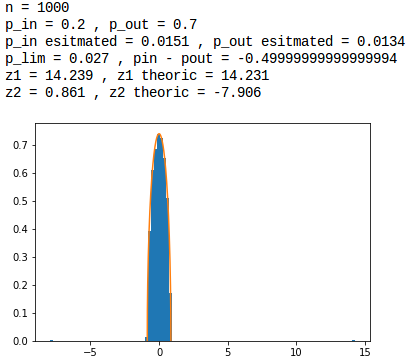
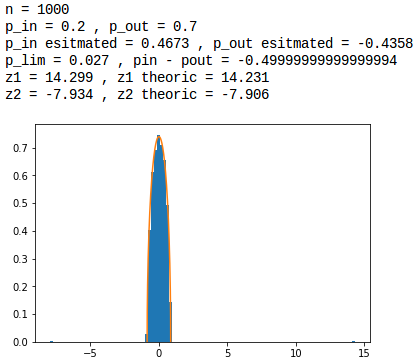
final version of Raj-Rao_Newman

Changed region(s): [[0.0, 0.0, 1.0, 0.2773], [0.0296, 0.3389, 0.9163, 1.0]]

diff --git a/chapter/simulation.tex b/chapter/simulation.tex
@@ -9,21 +9,21 @@ Le but est de générer une matrice d'adjacence A sous les mêmes hypothèses qu
 
 L'élément discriminant du test spectral étant la variable $ \Delta p= p_{in} - p_{out}$, nous allons tester 3 valeurs représentatives des différents types de résultats:
 \begin{itemize}
-	\item[1-] $\Delta p \in [-1,\: 0] \implies$ le graphe ne comporte pas de structure de communauté ;
-	\item[2-] $\Delta p \in [0,\: p_{lim}] \implies$ le graphe comporte une structure de communauté mais la méthode spectrale ne réussi pas à la trouver ;
-	\item[2-] $\Delta p \in [p_{lim},\: 1] \implies$ le graphe comporte une structure de communauté.\\
+	\item[1-] $\Delta p \in [-1,\: -p_{lim}] \implies$ le graphe comporte de structure de communauté ``disassortative'';
+	\item[2-] $\Delta p \in [-p_{lim},\: p_{lim}] \implies$ la méthode spectrale ne peut rien conclure sur la stucture de communauté du graphe;
+	\item[2-] $\Delta p \in [p_{lim},\: 1] \implies$ le graphe comporte une structure de communauté ``assortative''.\\
 \end{itemize}
 
 Par la suite nous allons tester pour les valeurs $\Delta p= 0.5, 0.08, -0.5$ .
-De plus nous ferons une première vague de test avec $n=100$ et une autre avec $n=1000$.
+De plus nous ferons une première batterie de test avec $n=100$ et une autre avec $n=1000$.
 La terminologie utilisée dans les figures ci-dessous est:
 \begin{itemize}
 	\item[- \underline{$n,\: p_{in},\: p_{out},\: p_{lim},\: z_1,\: z_2$}:] sont identiques aux notations utilisées jusqu'à présent ;
 	\item[- \underline{$z_1\: theoric, \:z_2\: theoric$}:] sont les plus grandes valeurs propres $z_1$ et $z_2$ calculées via les équations \eqref{z_1} et \eqref{z_2} ;    
 	\item[- \underline{$p_{in}\: estimated, \:p_{out}\: estimated$}:] sont les probabilités du SBM calculées a posteriori grâce aux valeurs propres $z_1$ et $z_2$.\\
 \end{itemize}
-Les $p_{in}\: estimated, \:p_{out}\: estimated$ sont calculés via un calcul d'optimisation (la fonction ``fsolve'' en python).
-\begin{figure}[H]
+Les $p_{in}\: estimated, \:p_{out}\: estimated$ sont calculés via un calcul d'optimisation.\\
+\begin{figure}[p]
 	\begin{subfigure}{.5\textwidth}
 		\centering
 		\includegraphics[scale=0.58]{static/spectral_n100_pin08_pout03.png}
@@ -65,15 +65,24 @@ Les $p_{in}\: estimated, \:p_{out}\: estimated$ sont calculés via un calcul d'o
 La première observation que l'on peut faire est que les valeurs propres de nos matrices d'adjacence sont bien distribuées selon la loi du demi-cercle de Wigner.
 De plus, en fonction de $\Delta p$ la mesure spectrale est perturbé (ou pas) par une ou deux valeurs propres qui sortent du support de la distribution initiale.\\
 
-Dans les cas avec $\Delta p = 0.5$ (\ref{n100delta05}, \ref{n1000delta05}), on voit très clairement deux valeurs propres qui se détachent du support de la distribution de Wigner.
-Les valeurs $z_1$, $z_2$ correspondent bien aux valeurs théoriques et dans ce cas on retrouve, avec un taux d'erreur de l'ordre de $10^{-2}$, les valeurs $p_{in}$, $p_{out}$ du modèle utilisé pour générer le graphe.\\
+Dans les cas avec $\Delta p = 0.5$ (\autoref{n100delta05}, \autoref{n1000delta05}), on voit très clairement deux valeurs propres qui se détachent du support de la distribution de Wigner.
+Les valeurs $z_1$, $z_2$ correspondent bien aux valeurs théoriques avec un taux d'erreur de l'ordre de $10^{-2}$.
+Par conséquent lorsque l'on obtient une valeur propre négative, le modèle spectral nous permet de conclure qu'il y a une structure de communauté ``assortative'' dans le graphe.\\
 
-Dans les cas avec $\Delta p = -0.5$ (\ref{n100delta008}, \ref{n1000delta008}), on ne s'attend pas à ce que les valeurs théorique du modèles correspondent aux valeurs trouvées par la simulation, dans la mesure où il n'y a en théorie aucune structure de communauté dans le graphe.
-Cependant, on observe une valeur propre négative en dehors du support de la loi de Wigner.
-Par conséquent lorsque l'on obtient une valeur propre négative, le modèle spectral nous permet de conclure qu'il n'y a pas de structure de communauté dans le graphe.\\
+Dans les cas avec $\Delta p = -0.5$ (\autoref{n100delta008}, \autoref{n1000delta008}), selon l'\autoref{z_2}, on ne s'attend à ce qu'une des valeurs propres théorique soit négative.
+On observe une valeur propre négative en dehors du support de la loi de Wigner et une autre au dessus du support.
+Ces valeurs observées correspondent on valeurs théoriques avec une erreur de l'ordre de $10^{-2}$.
+Par conséquent lorsque l'on obtient une valeur propre négative, le modèle spectral nous permet de conclure qu'il y a une structure de communauté ``disassortative'' dans le graphe.\\
 
-Enfin, dans les cas avec $\Delta p = 0.08$ (\ref{n100delta-05}, \ref{n1000delta-05}), il y a donc en théorie une structure de communauté. 
-Cependant on se retrouve dans le cas limite décrit dans \autoref{subsec:1.3}, dans lequel le modèle ne peut pas interpréter les résultats du modèle spectral.
-En effet, on peut observer sur la figure \ref{n100delta-05} qu'il n'y a qu'une seule valeur propre qui est en dehors du support, par conséquent il n'y a qu'une seule valeur propre maximale (ici $z_1$) qui correspond à sa valeur théorique et de fait nous ne pouvons plus retrouver les valeurs de $p_{in}$, $p_{out}$ via les équations \eqref{z_1} et \eqref{z_2}.
-Cependant, avec le même $\Delta p$ mais avec plus de nœud ($n = 1000$) le modèle spectral parvient à détecter la structure de communauté et a retrouver a peu prêt les valeurs $z_1$ et $z_2$.  
-Ceci confirme la remarque du \autoref{rq:ngrand}, selon laquelle plus il y a d’information (i.e nœuds) dans le graphe plus la valeur de $p_{lim}$ tend vers $0$.
+Enfin, les cas avec $\Delta p = 0.08$ (\autoref{n100delta-05}, \autoref{n1000delta-05}). 
+On se trouve dans le cas limite décrit dans \autoref{subsec:1.3}, dans lequel le modèle ne peut pas interpréter les résultats du modèle spectral.
+On peut observer sur la \autoref{n100delta-05} qu'il n'y a qu'une seule valeur propre qui est en dehors du support.
+Par conséquent il n'y a qu'une seule valeur propre extrémale (ici $z_1$) qui correspond à sa valeur théorique, de fait nous ne pouvons conclure sur la structure de communauté du graphe.
+Cependant, avec le même $\Delta p$ mais avec plus de nœud ($n = 1000$) le modèle spectral parvient à détecter la structure de communauté et à retrouver les valeurs $z_1$ et $z_2$.  
+Ceci confirme la remarque du \autoref{rq:ngrand} selon laquelle, plus il y a d’information (i.e nœuds) dans le graphe plus la valeur de $p_{lim}$ tend vers $0$.\\
+
+Si on compare les valeurs théoriques de l'article initial \cite{raj_rao} avec les valeurs des simulations, on voit très clairement une différence.\\
+Par exemple, pour $p_{in} = 0.8$, $p_{out}=0.3$, et $n=100$ les valeurs propres calculées avec les équations \nameref{tab:bilan} sont $z_1 = 22.785$ et $z_2 = 18.815$.
+Les valeurs propres empiriques sont $z_1 = 5.538$ et $z_2 = 2.545$.\\
+Ou encore, pour $p_{in} = 0.2$, $p_{out}=0.7$, et $n=1000$ les valeurs propres calculées avec les équations \nameref{tab:bilan} sont $z_1 = -56.732$ et $z_2 = 31.833$.
+Les valeurs propres empiriques sont $z_1 = 14.299$ et $z_2 = -7.934$.

diff --git a/chapter/model.tex b/chapter/model.tex
@@ -19,7 +19,7 @@ Nous supposerons d'ailleurs, que ses éléments sont rangés dans l'ordre de leu
 Dans notre cas avec \textbf{q}=2, les $\mathbf{n}/2$ premières lignes correspondent aux noeuds de la communauté 1, et les $\mathbf{n}/2$ dernières la communauté 2.
 Même chose pour les colonnes, par symétrie de \textbf{A}.
 Chaque élément de la matrice \textbf{A} est simulé par une loi de Bernoulli avec: 
-\begin{equation} 
+\begin{equation}\label{rq:probability}
  A_{ij} \sim \left\{
   \begin{array}{lr}
     B(p_{in}) & : (i,j < \frac{n}{2}) \; ou \; (i,j \ge \frac{n}{2}) \\
@@ -109,22 +109,24 @@ Où $Z_{ij} = \frac{B(p) - p}{\sqrt{p(1-p)}} \;\;avec \; p = p_{in} \lor p_{out}
 % ------------------------------------------------- théorème 1 -------------------------------------------------
 Le théorème de Wigner ne fonctionne que pour les matrices à entrées iid. 
 Il existe un théorème lorsque le profil de variance de la matrice aléatoire étudié est stochastique.
-\begin{mydef}
-Soit $W \in M_{n}(\mathbb{R})$ (ensemble de matrices carrée de dimension $n \times n$), $W_{ij}$ sont des variables aléatoires réels, $\mathbb{E}(W_{ij}) = 0$, $\mathbb{E}(W_{ij}^2) = \sigma_{ij}^2< \infty$\\
-
-Le profile de variance de $W$ est la matrice $V=\left\{ \sigma_{ij}^2 \right\}_{i,j=1}^n$
-\end{mydef}
-
 \begin{theorem}\label{th:1}
-Soit $W \in M_{n}(\mathbb{R})$, $W_{ij}$ sont des variables aléatoires réels, $\mathbb{E}(W_{ij}) = 0$, $\mathbb{E}(W_{ij}^2) < \infty$, $W_{ij} = W_{ji}$
-
-Si le profil de variance de $\frac{W}{\sqrt{n}}$, $V$, est telle que $\forall i = 1:n , \; \sum_{j=1}^{n}V_{ij} = \sigma^2$ pour $\sigma \in \mathbb{R}$
-
-Alors si on note la mesure spectrale de $\frac{W}{\sqrt{n}}$, $L_{n}$  et $\mathbb{P}_{wig}$ la mesure associé à la distribution $f_{wig}(x)= \frac{\sqrt{(4\sigma^2 - x^2)_+}}{2\pi\sigma^2}$ on a:
+Soit $W \in M_{n}(\mathbb{R})$, $W_{ij}$ sont des variables aléatoires réels\\
+On suppose que les $(W_{ij})_{i \leq j}$ sont indépendantes telles que $\mathbb{E}(W_{ij}) = 0$, $\sigma_{ij}^2 = \mathbb{E}(W_{ij}^2) < \infty$, $W_{ij} = W_{ji}$\\
+On appelle profil de variance la matrice symétrique
+\begin{align*}
+	\tilde V_n = (\sigma_{ij}^2)_{1 \leq i,j \leq n}
+\end{align*}
+et profil de variance normalisé 
+\begin{align*}
+	V_n = \left(\frac{\sigma_{ij}^2}{n}\right)_{1 \leq i,j \leq n}
+\end{align*}
+On suppose que $V_n$ est stochastique: $\forall i = 1:n , \; \sum_{j=1}^{n}V_{ij} = \sigma^2$\\
+Alors la mesure spectrale $L_{n}$ de $\frac{W}{\sqrt{n}}$ vérifie
 
 \begin{equation}
-	L_n\xrightarrow[n \to +\infty]{etr} \mathbb{P}_{wig}\nonumber
+	L_n\xrightarrow[n \to +\infty]{etr} \mathbb{P}_{wig}\nonumber \; p.s
 \end{equation}\\
+où $\mathbb{P}_{wig}$ est la loi de Wigner de densité $f_{wig}(x)= \frac{\sqrt{(4\sigma^2 - x^2)_+}}{2\pi\sigma^2}$
 \end{theorem}
 
 Soit $V$ le profil de variance de $\frac{X}{\sqrt{n}}$. $\forall i = 1:n$ on a: 
@@ -236,19 +238,19 @@ Nous avons normalisé les équations de l'article original par $\frac{1}{\sqrt{n
 \underline{Rappel}: $\sigma_{in}^2=p_{in}(1-p_{in})$ ; $\sigma_{out}^2=p_{out}(1-p_{out})$ ; $c_{in} = np_{in}$ ; $c_{out} = p_{out}$
 
 \renewcommand{\arraystretch}{2}
-\begin{table}[h]
+\begin{table}[h] 
+	\label{tab:bilan}
 	\centering
     \begin{tabular}{|l|l|l|}
     \hline
       &  Résultats de l'article  &  Résultats obtenus \\ \hline
-    $\rho (z)$  &  $\frac{n}{\pi}\frac{\sqrt{(2(c_{in} + c_{out}) - x^2)_+}}{(c_{in} + c_{out})}$&  $\frac{\sqrt{(2(\sigma_{in}^2 + \sigma_{out}^2) - x^2)_+}}{\pi(\sigma_{in}^2 + \sigma_{out}^2)}$\\ \hline
-    $\sigma^2$ &  $\frac{c_{in} + c_{out}}{2n}$ &  $\frac{\sigma_{in}^2 + \sigma_{out}^2}{2}$ \\ \hline
-    $z_1$&  $\frac{c_{in}-c_{out}}{2} + \frac{c_{in}+c_{out}}{c_{in}-c_{out}}$ &  $\frac{c_{in}-c_{out}}{2\sqrt{n}} + \sqrt{n}\frac{\sigma_{in}^2+\sigma_{out}^2}{c_{in}-c_{out}}$\\ \hline
-    $z_2$&  $\frac{c_{in}+c_{out}}{2} + 1$ &  $\frac{c_{in}+c_{out}}{2\sqrt{n}} + \sqrt{n}\frac{\sigma_{in}^2+\sigma_{out}^2}{c_{in}+c_{out}}$\\ \hline
-    $p_{lim}$&  $\frac{\sqrt{2(c_{in} - c_{out})}}{\sqrt{n}}$ &  $\frac{\sqrt{2(\sigma_{in}^2 + \sigma_{out}^2)}}{\sqrt{n}}$\\ \hline
+    $\rho (z)$  &  $\frac{1}{\pi\sqrt{n}}\frac{\sqrt{(2(c_{in} + c_{out}) - x^2)_+}}{(c_{in} + c_{out})}$&  $\frac{\sqrt{(2(\sigma_{in}^2 + \sigma_{out}^2) - x^2)_+}}{\pi(\sigma_{in}^2 + \sigma_{out}^2)}$\\ \hline
+    $z_1$&  $\frac{c_{in}-c_{out}}{2\sqrt{n}} + \sqrt{n}\frac{c_{in}+c_{out}}{c_{in}-c_{out}}$ &  $\frac{c_{in}-c_{out}}{2\sqrt{n}} + \sqrt{n}\frac{\sigma_{in}^2+\sigma_{out}^2}{c_{in}-c_{out}}$\\ \hline
+    $z_2$&  $\frac{c_{in}+c_{out}}{2\sqrt{n}} + \sqrt{n}$ &  $\frac{c_{in}+c_{out}}{2\sqrt{n}} + \sqrt{n}\frac{\sigma_{in}^2+\sigma_{out}^2}{c_{in}+c_{out}}$\\ \hline
+    $p_{lim}$&  $\frac{\sqrt{2(c_{in} - c_{out})}}{n}$ &  $\frac{\sqrt{2(\sigma_{in}^2 + \sigma_{out}^2)}}{\sqrt{n}}$\\ \hline
     \end{tabular}
 \end{table}
 
 Les résultats quantitatifs empiriques que nous avons obtenu sont différents de ceux de l'article de référence.
 Au contraire, les simulations corroborent les formules trouvées ci-dessus.
-Nous le verrons  plus précisément dans la section suivante.   
+Nous le verrons plus précisément dans la section suivante.   

diff --git a/chapter/graph_spectral_clustering_motivation.tex b/chapter/graph_spectral_clustering_motivation.tex
@@ -80,7 +80,7 @@ Les limites des modèles spectraux qui sont en développement pour la détection
 
 \subsection{Comparaison des performances}
 La notion de structure de communauté n'a pas de définition consensuel.
-Ceci est également vrai pour les métriques qui mesure les performance des différentes méthode.
+Ceci est également vrai pour les métriques qui mesure les performances des différentes méthode.
 Ci-dessous une liste des métriques qui seront utilisées ultérieurement.
 Pour une liste complète voir \cite[p.77-79]{Community_detection_in_graphs}.
 \begin{itemize}
